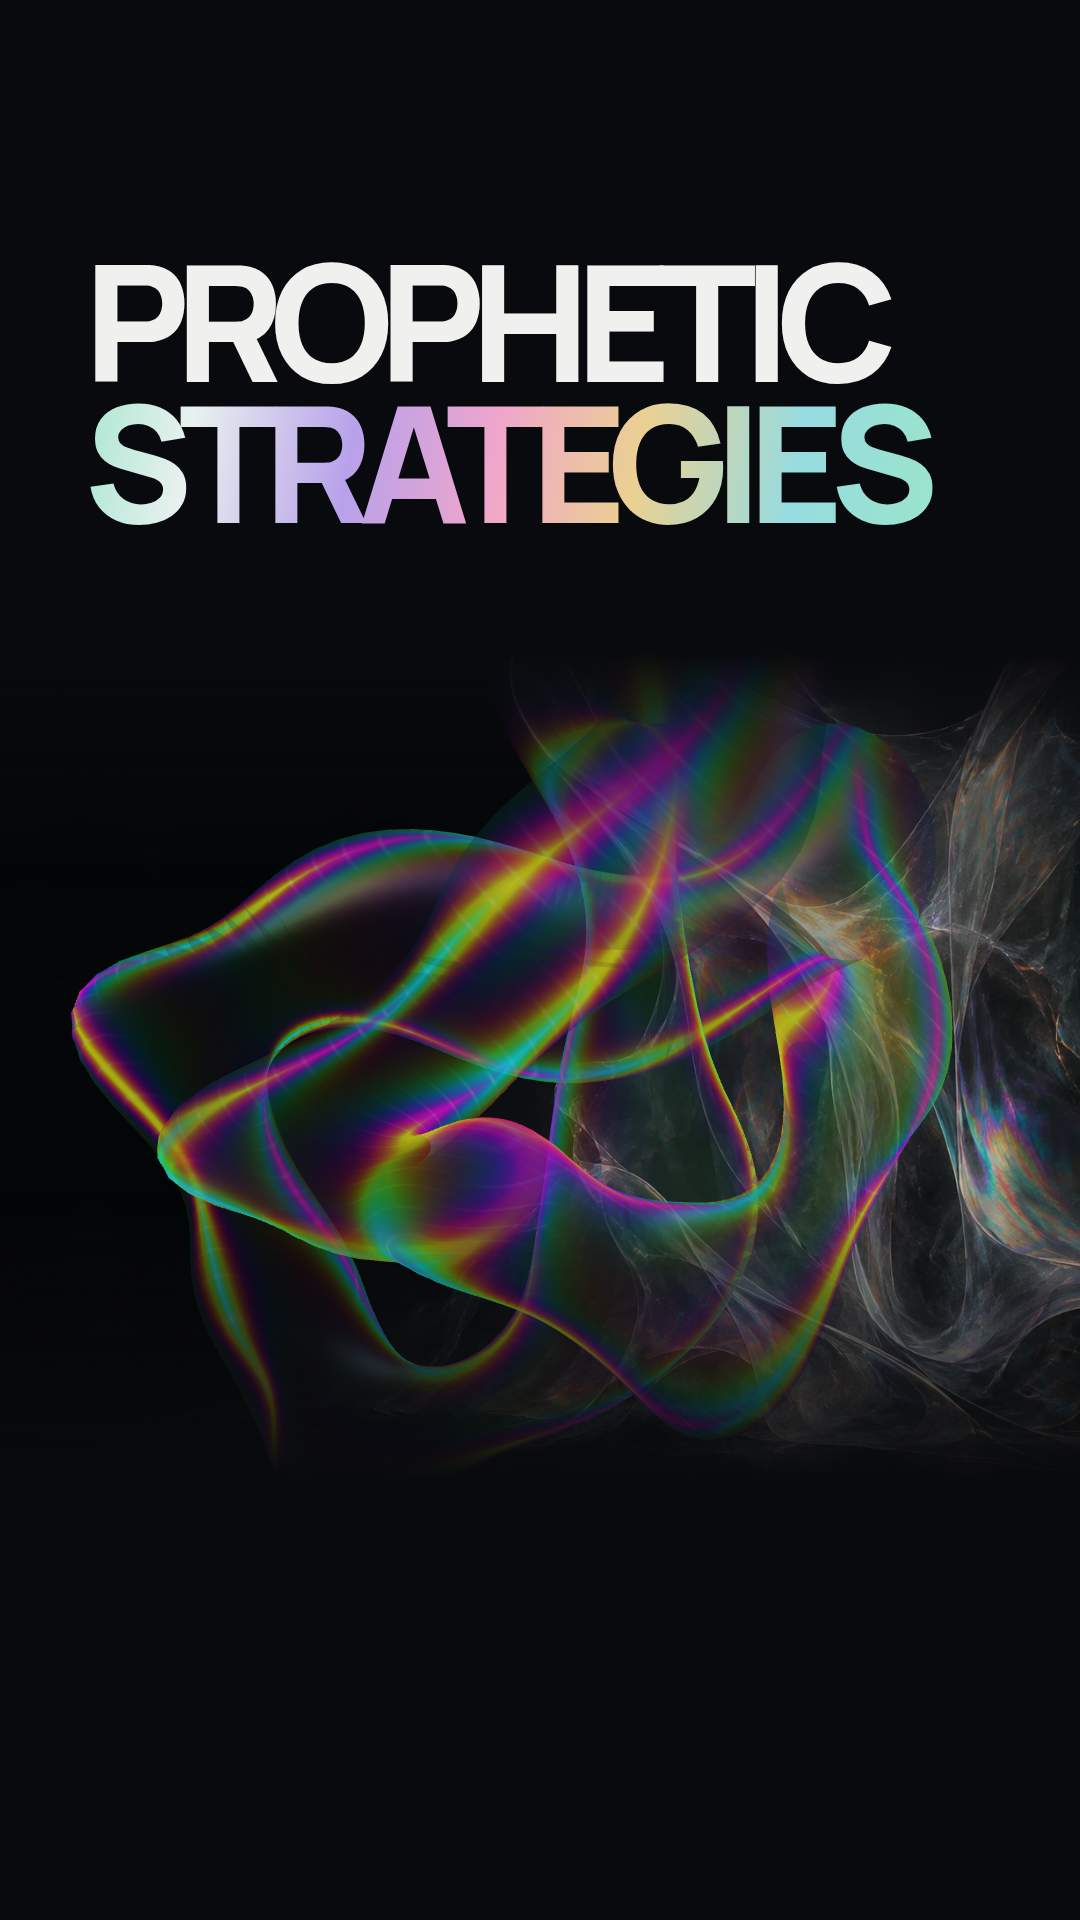
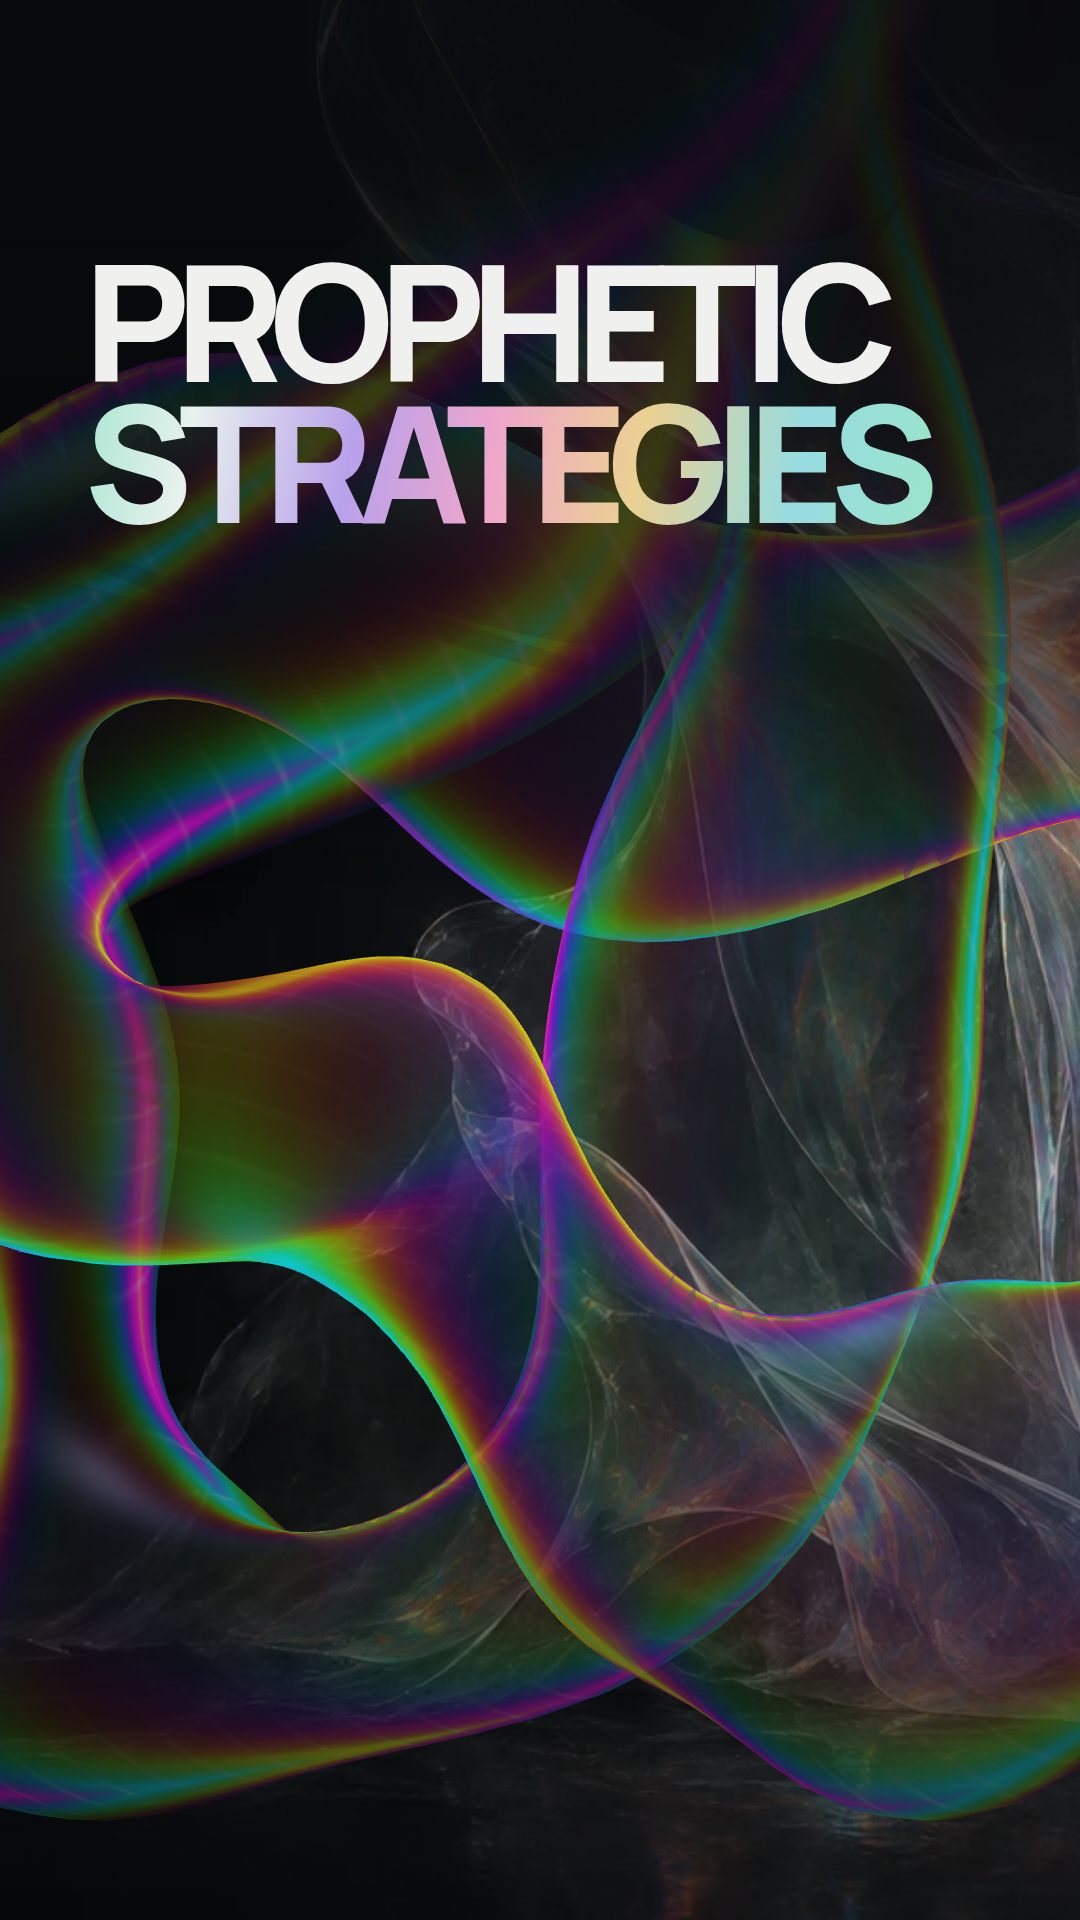
chore: fill the story images with the illustration

diff --git a/assets/social/README.md b/assets/social/README.md
@@ -9,6 +9,6 @@ Images for posting the site on Instagram and similar apps. Those apps show poste
 | `story-9x16-1080x1920.png`                 | 1080×1920 | Stories, Status and Reels covers                  |
 | `*-title-only.png`                         | as above  | Same layouts with only the title                  |
 
-The full versions carry the tagline and `prophetic.simulacro.tech`. The story layouts leave the bottom third clear for Instagram's link sticker.
+The full versions carry the tagline and `prophetic.simulacro.tech`. In the story layouts the art fills the whole frame, so a link sticker sits over it.
 
 They were captured with headless Chrome from the built site at each size, with the oracle form hidden and the hero art repositioned, so the 3D shape differs slightly between images. If the title, tagline or domain changes, regenerate them.
